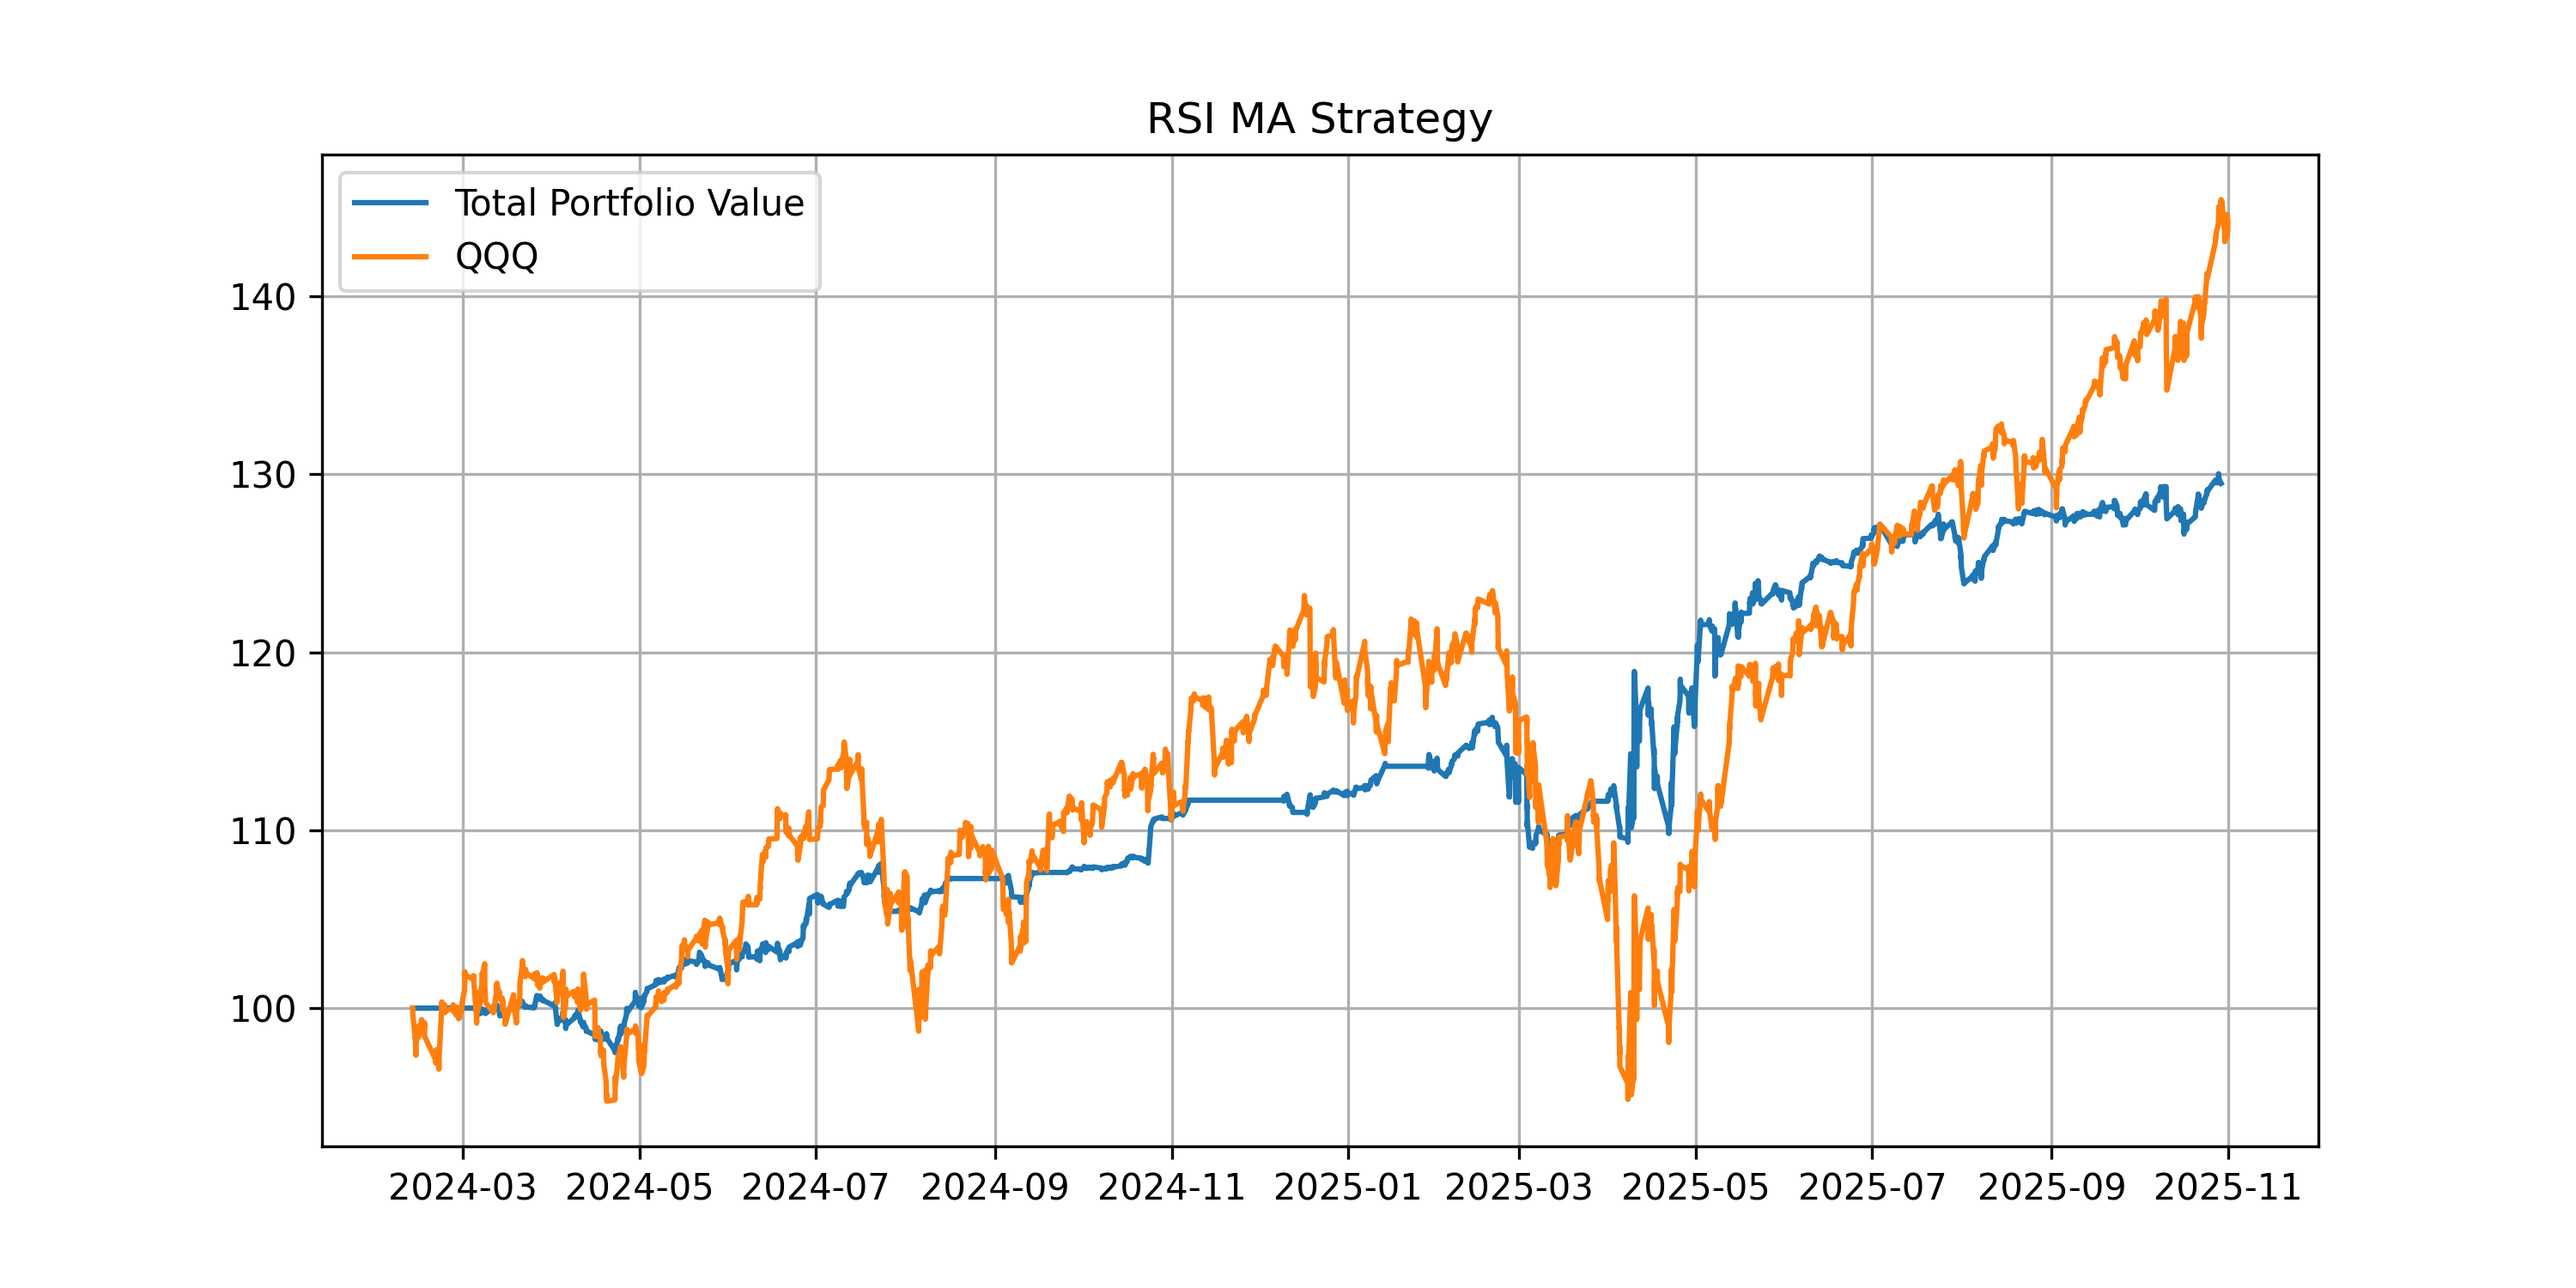
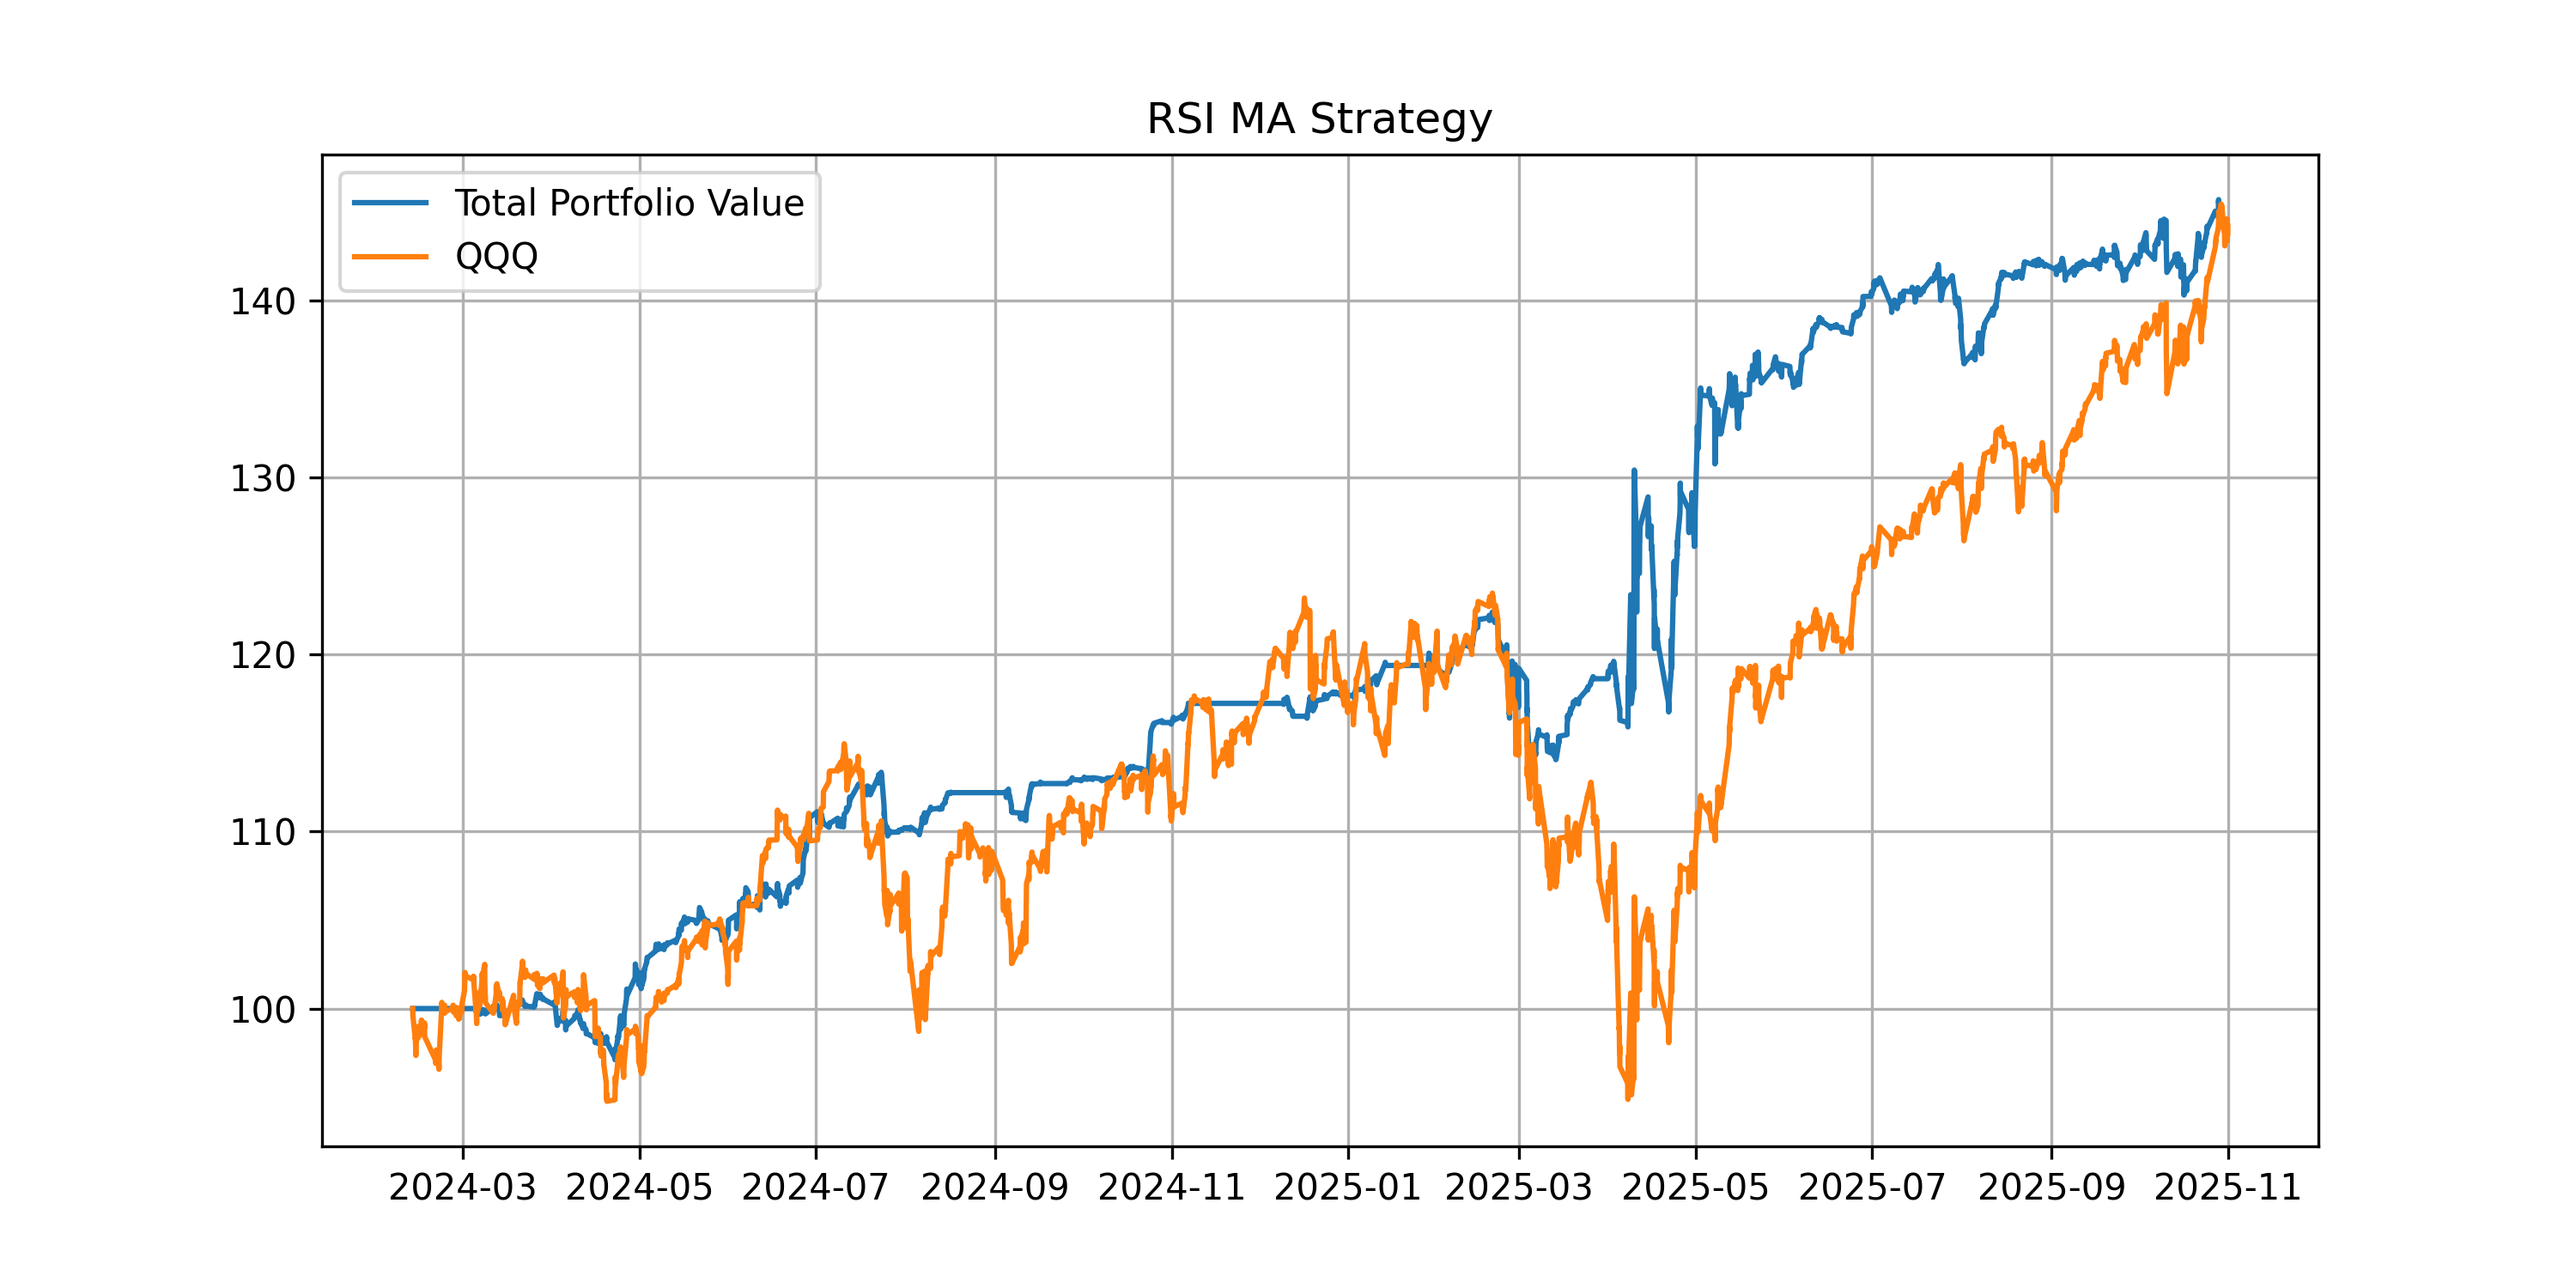
Update buy-in portion logic using realized cash

diff --git a/src/trade_env.py b/src/trade_env.py
@@ -110,7 +110,7 @@ class TradeEnv(gym.Env):
             if actions[i] > 0: # e.g. action = 0.5, buy in with 0.5*BUYIN_UNIT
                 # buy in at the open price of the next tick
                 buyin_price = open_price
-                buyin_money = self.buyin_portion * self.portfolio.cash
+                buyin_money = self.buyin_portion * self.portfolio.realized_cash
                 # only buy in integer shares
                 shares, actual_buyin_money = self._buyin_shares(buyin_money, buyin_price)
                 self.portfolio.update_cash(-actual_buyin_money)
@@ -226,6 +226,7 @@ class Portfolio:
                                        "average_price": 0.0,
                                        "returns": 0.0} for ticker in tickers}
         self.cash = cash
+        self.realized_cash = cash # cash including realized profits/losses
         self.total_value = cash
         self.total_value_history = pd.DataFrame(columns=['Total Value'])
         self.trade_history = {ticker: [] for ticker in tickers}
@@ -272,6 +273,7 @@ class Portfolio:
         realized = None
         if action == 'SELL':
             realized = (price*(1-self.fee_rate)-self.holdings_info[ticker]["average_price"]) * shares
+            self.realized_cash += realized
         self.trade_history[ticker].append({"date": date,
                                            "action": action,
                                            "shares": shares,
